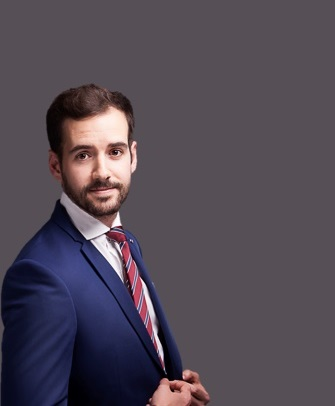
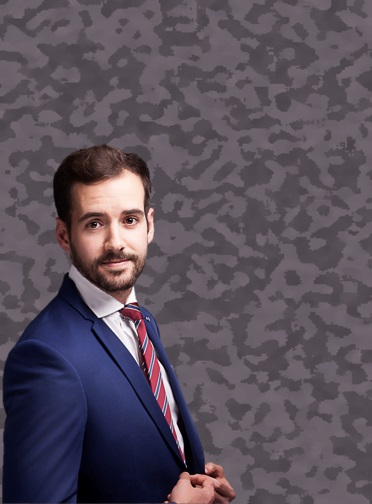
Arreglo en la imágen

diff --git a/index.html b/index.html
@@ -11,11 +11,12 @@
 </head>
 <body>
     <header>
-        <div class="container">
+        <div class="container-fluid">
             <div class="row">
-                <div class="col text-center">
-                    <h1>Locutor Comercial</h1>
+                <div class="col align-items-center text-center">
+                    <h1 class="">Locutor Comercial </h1>
                 </div>
+
             </div>
         </div>
     </header>
@@ -55,14 +56,14 @@
             <div class="container">
                 <div class="row">
                     <div class="col text-center">
-                        <p><b>Escucha mis trabajos</b></p>
+                        <h3>Escucha mis trabajos</h3>
                     </div>
                 </div>
                 <div class="row">
                     <div class="col align-items-center text-center" id="carta">
                         <div class="card border-secondary" style="width: 18rem;">
                             <ul class="list-group list-group-flush">
-                                <li class="list-group-item"><img src="./Imagenes/play.jpg" class="card-img-top" alt="Boton de play"></li>
+                                <li class="list-group-item"><img src="./Imagenes/play.jpg" class="card-img-top" alt="Logo de Toritos"></li>
                             <div class="card-body" id="color_carta">
                                 <ul class="list-group list-group-flush">
                                     <li class="list-group-item"><h5 class="card-title">Toritos S.A</h5></li>
@@ -73,21 +74,57 @@
                     </div>
                     <div class="col align-items-center text-center" id="carta">
                         <div class="card border-secondary" style="width: 18rem;">
-                            <img src="./Imagenes/play.jpg" class="card-img-top" alt="Boton de play">
+                            <ul class="list-group list-group-flush">
+                                <li class="list-group-item"><img src="./Imagenes/play.jpg" class="card-img-top" alt="Logo de Toritos"></li>
                             <div class="card-body" id="color_carta">
-                              <h5 class="card-title">Otro comercial</h5>
-                              <p class="card-text">Promociones de toritos por litro de la zona de veracruz.</p>
+                                <ul class="list-group list-group-flush">
+                                    <li class="list-group-item"><h5 class="card-title">Otro comercial</h5></li>
+                                    <li class="list-group-item"><audio src="./Audios/audio1.mp4" preload="auto" controls class="" id="audio"></audio></li>
+                                    <li class="list-group-item"><p class="card-text">Promociones de toritos por litro de la zona de veracruz.</p></li>
                             </div>
                           </div>
                     </div>
                     <div class="col align-items-center text-center" id="carta">
                         <div class="card border-secondary" style="width: 18rem;">
-                            <img src="./Imagenes/play.jpg" class="card-img-top" alt="Boton de play">
+                            <ul class="list-group list-group-flush">
+                                <li class="list-group-item"><img src="./Imagenes/play.jpg" class="card-img-top" alt="Logo de Toritos"></li>
                             <div class="card-body" id="color_carta">
-                              <h5 class="card-title">Otro comercial</h5>
-                              <p class="card-text">Promociones de toritos por litro de la zona de veracruz.</p>
+                                <ul class="list-group list-group-flush">
+                                    <li class="list-group-item"><h5 class="card-title">Otro comercial</h5></li>
+                                    <li class="list-group-item"><audio src="./Audios/audio1.mp4" preload="auto" controls class="" id="audio"></audio></li>
+                                    <li class="list-group-item"><p class="card-text">Promociones de toritos por litro de la zona de veracruz.</p></li>
                             </div>
                           </div>
+                    </div>
+                </div>
+                <div class="row">
+                    <div>
+                        <br>
+                        <hr>
+                    </div>
+                </div>
+            </div>
+        </article>
+        <article>
+            <div class="container">
+                <div class="row">
+                    <div class="col text-center">
+                        <h3>Contacto</h3>
+                    </div>
+                </div>
+                <div class="row">
+                    <div class="col">
+                        <ul>
+                            <li class="d-none d-md-block">
+                                <p><b>Número de Teléfono:</b> +52-869-858-75-66</p>
+                            </li>
+                            <li class="d-md-none">
+                                <p><b>Número de Teléfono:</b> <br>+52-869-858-75-66</p>
+                            </li>
+                            <li>
+                                <p><b>Correo Electrónico:</b> jorgeruizlocutor@gmail.com</p>
+                            </li>
+                        </ul>
                     </div>
                 </div>
                 <div class="row">

diff --git a/css/estilos1.css b/css/estilos1.css
@@ -1,15 +1,23 @@
 /* Secciones */
 body{
-    background-color: #F1F4FF;
+    background-color: #f03022;
 }
+section section{
+    /* background-color: #564f56; */
+    background: url(../Imagenes/fondo.jpg);
+    background-repeat: no-repeat;
+    background-size: 100% 100%; 
+}
+
 .main{
-    background-color: #564f56;
+    /* Nada */
 }
 header{
     background-color: #3E69FC;
     height: 10vh;
     align-items: center;
     display: flex;
+
 }
 footer{
     background-color: black;
@@ -25,6 +33,8 @@ footer img{
 /* Estilos de letra */
 h1{
     color: white;
+    margin-left: 0px;
+
 }
 section p{
     font-size: 20px;
@@ -42,8 +52,10 @@ section p{
 /* /Cartas */
 /* Imagenes */
 header img{
-    display: flex; 
-    flex-direction: column; 
+    max-height: 10vh;
+    margin-left: 25vh;
+    padding: 0%;
+
 }
 #imgmain{
     position: relative;
